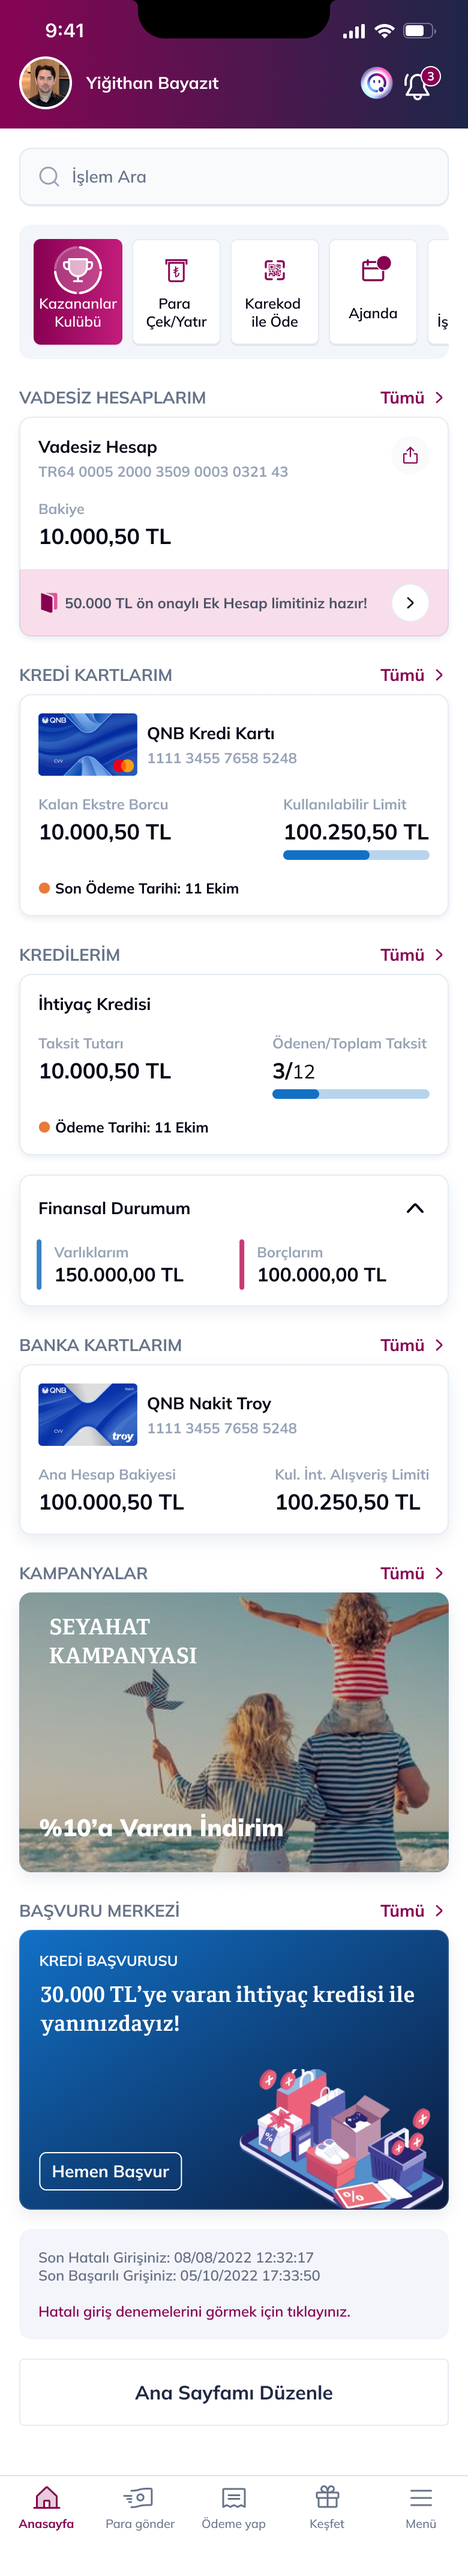
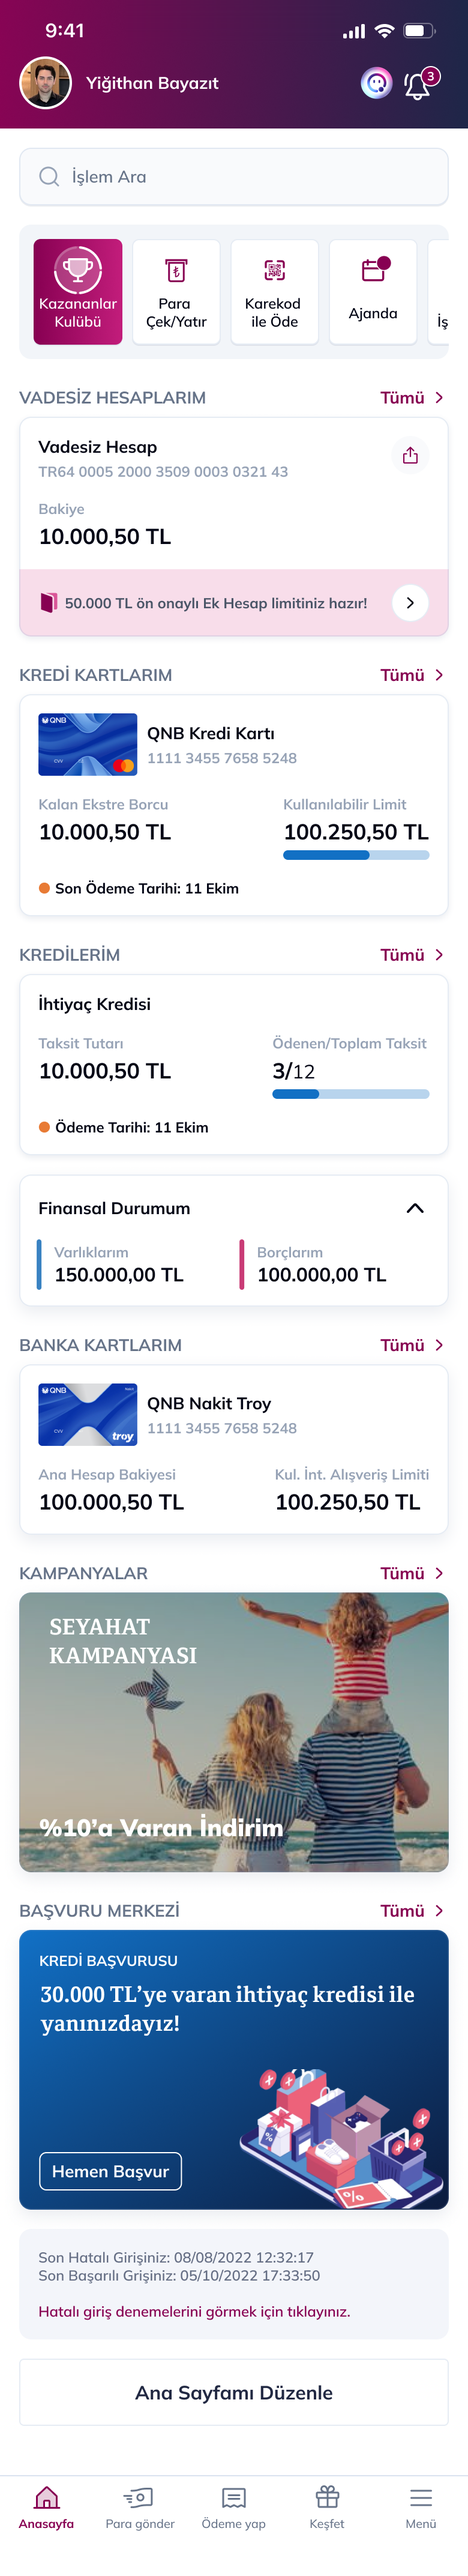
Remove baked-in notch from home header; make cloud browser path conditional
Claude-Session: https://claude.ai/code/session_01VXLMkCNK3jvgyoYRiYgbUV

Changed region(s): [[0.2769, 0.0, 0.7077, 0.0312]]

diff --git a/qnb-promo/remotion.config.ts b/qnb-promo/remotion.config.ts
@@ -5,10 +5,17 @@
  * All configuration options: https://remotion.dev/docs/config
  */
 
+import fs from "node:fs";
 import { Config } from "@remotion/cli/config";
 
 Config.setRspack(true);
 Config.setVideoImageFormat("jpeg");
 Config.setOverwriteOutput(true);
 Config.setDefaultPremountInSeconds(2);
-Config.setBrowserExecutable("/opt/pw-browsers/chromium_headless_shell-1243/chrome-headless-shell-linux64/chrome-headless-shell");
+// Only used inside the cloud build container (no internet for the browser download).
+// On a normal computer Remotion downloads its own browser, so this is skipped.
+const CLOUD_BROWSER =
+  "/opt/pw-browsers/chromium_headless_shell-1243/chrome-headless-shell-linux64/chrome-headless-shell";
+if (fs.existsSync(CLOUD_BROWSER)) {
+  Config.setBrowserExecutable(CLOUD_BROWSER);
+}
